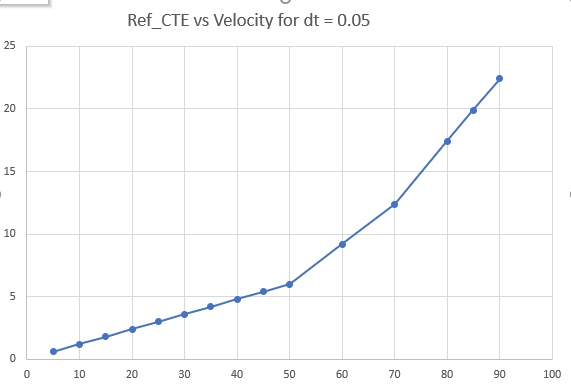
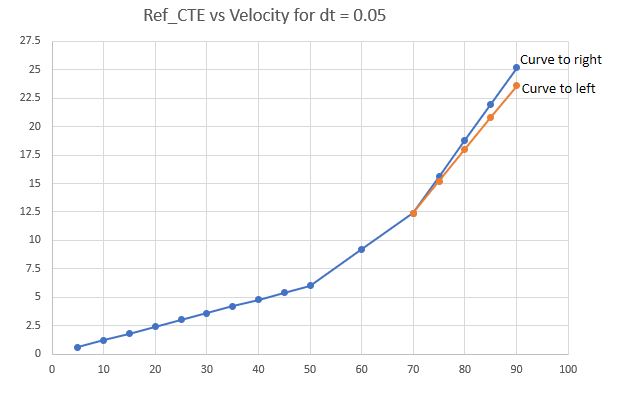
Update reflections remove dummy comment in MPC.cpp

diff --git a/src/MPC.cpp b/src/MPC.cpp
@@ -154,7 +154,7 @@ public:
       fg[0] += delta_a_factor * squared((vars[a_start + t + 1] - vars[a_start + t]) - ref_delta_a);// remove jerkiness in acceleration/braking
     }
 
-    for (t = 1; t < N - 1; t++) //do't worry if start of 
+    for (t = 1; t < N - 1; t++) 
     {
       fg[0] += delta_cte_factor * squared((vars[cte_start + t + 1] - vars[cte_start + t])) - ref_cte * 0.2; //minimize change in cte (similar to steer reduction?
     }

diff --git a/AnthonyKnightTerm2Assignment5.md b/AnthonyKnightTerm2Assignment5.md
@@ -199,7 +199,9 @@ The following figure shows a map of the waypoints on the track, and I have label
 
 <img src="https://raw.githubusercontent.com/teeekay/CarND-MPC-Project/master/examples/Waypoints.png?raw=true"  width=400>
 
-The critical area of the track where my implementation of the MPC controller had the most problems was in or after curve number 3, where the car would either hit the concrete edge on the outside (left side) of the main curve or hit the concrete edge on the opposite (right) side of the track after coming through the curve.  In order to push the maximum speed higher on this track, I globally biased the value of the second coefficient used to calculate the reference_CTE when the speed increased beyond 70 mph.  This should result in the car moving to the right on the track.  I did not like this solution as it is only applicable to this track, and would cause the car to perform worse on other tracks, or even travelling around the same track in the opposite direction.
+The critical area of the track where my implementation of the MPC controller had the most problems was in or after curve number 3, where the car would either hit the concrete edge on the outside (left side) of the main curve or hit the concrete edge on the opposite (right) side of the track after coming through the curve.  In order to push the maximum speed higher on this track, I globally biased the value of the second coefficient used to calculate the reference_CTE when the speed increased beyond 70 mph.  This generally results in the car moving to the right on the track.  I did not like this solution as it is only applicable to this track, and would cause the car to perform worse on other tracks, or even travelling around the same track in the opposite direction.  The figure below shows how the reference_CTE value varied according to speed and on the direction of the curve (calculated for abs(coeff[2]) = 0.2).
+
+<img src="https://raw.githubusercontent.com/teeekay/CarND-MPC-Project/master/examples/OptimalRef_CTE.png?raw=true"  width=400>
 
 
 ### Throttle Constraints (No Braking!)
